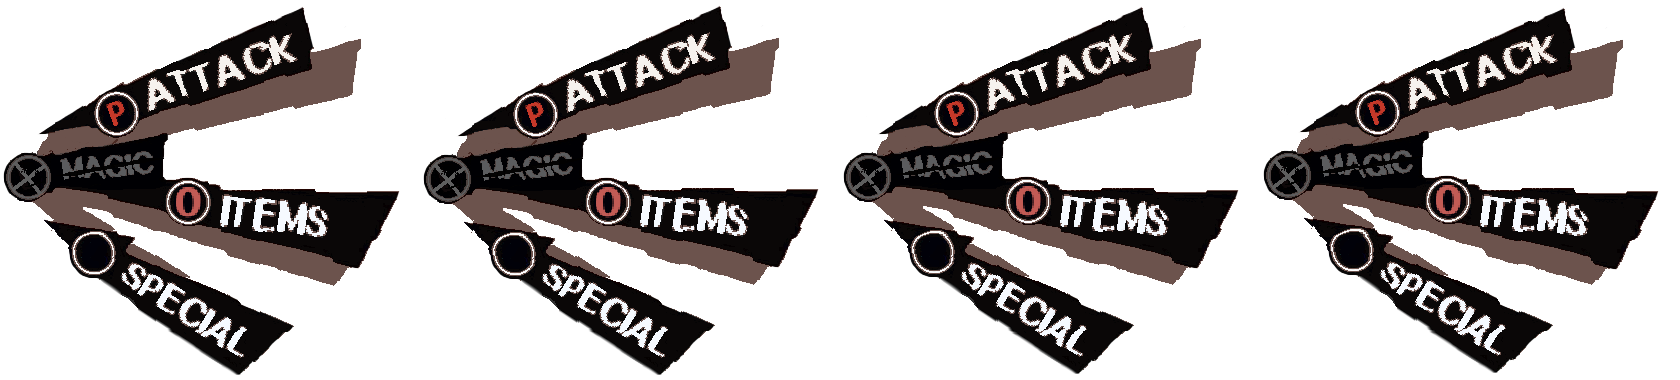
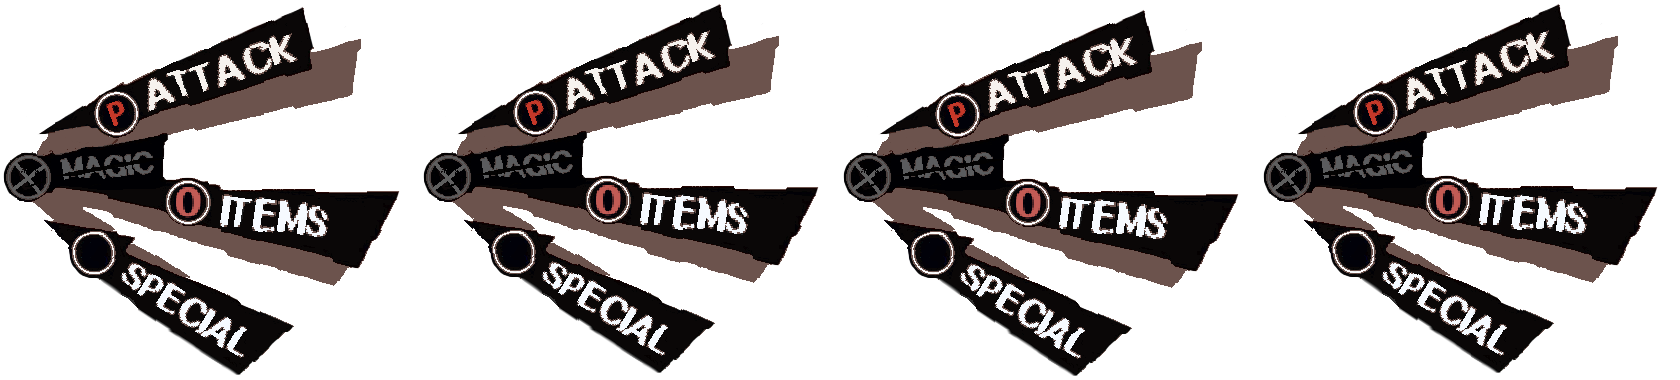
FUCKING FINALLY

diff --git a/scripts/states/combat.py b/scripts/states/combat.py
@@ -252,8 +252,10 @@ class CombateMenu(pygame.sprite.Sprite):
     def set_show_magic(self, show_magic):
         if not show_magic:
             self.state = 'no_magic'
+            self.animation_speed = .05
             return
         self.state = 'normal'
+        self.animation_speed = .1
 
 
 
